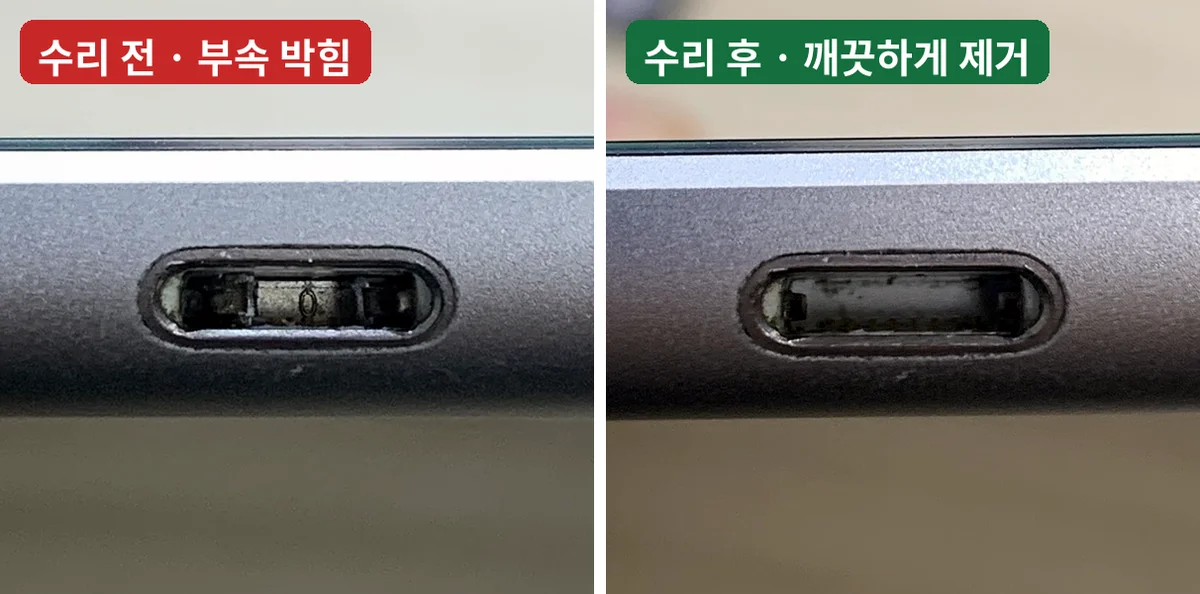
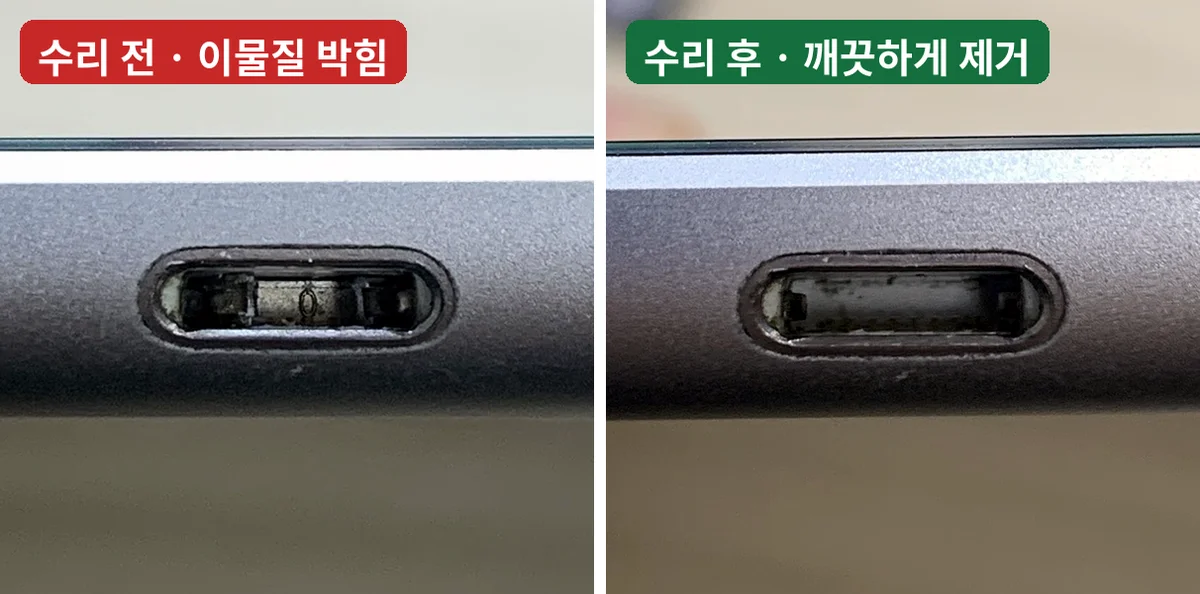
아이패드 9세대 충전단자 글: '충전기 부속'→'이물질' 표현 변경, 주소 변경 및 옛 주소 리디렉트
Claude-Session: https://claude.ai/code/session_01GKuoYgx4jjQMsMoCYLGCHG

Changed region(s): [[0.1542, 0.0303, 0.3392, 0.1515]]

diff --git a/content/blog/아이패드-충전단자-이물질-박힘-교체-없이-제거-9세대-후기.md b/content/blog/아이패드-충전단자-이물질-박힘-교체-없이-제거-9세대-후기.md
@@ -1,0 +1,105 @@
+---
+title: 아이패드 충전단자에 이물질이 박혔다면? 교체 없이 제거한 아이패드 9세대 후기
+description: 아이패드 충전단자에 이물질이 박혀 충전도 애플펜슬도 안 된다면, 억지로 빼지 말고 보드에 무리가 가지 않게 제거해야 해요. 충전단자는 메인보드와 연결돼 있어 힘으로 빼면 전원이 안 켜지거나 충전 라인이 망가질 수 있어요. 과잉 수리 없이 박힌 이물질만 제거해 합리적인 비용으로 충전과 애플펜슬을 살린 아이패드 9세대 후기로 정리했어요.
+date: 2026-11-26
+service: ipad-charging-port
+slug: 아이패드-충전단자-이물질-박힘-교체-없이-제거-9세대-후기
+question: q122
+---
+
+**아이패드 충전단자에 이물질이 박혀 충전도 애플펜슬도 안 된다면, 단자를 바로 교체하기보다 보드에 무리가 가지 않게 박힌 이물질만 제거할 수 있는지부터 확인하세요.** 충전단자는 메인보드와 연결돼 있어서, 힘으로 빼다가 보드에 무리가 가면 전원이 안 켜지거나 충전 라인이 망가질 수 있어요. 이번 아이패드 9세대는 단자 교체 없이, 보드에 문제 없이 박힌 이물질만 제거해 딱 필요한 수리만 했어요.
+
+| 방법 | 이런 경우 | 주의할 점 |
+|---|---|---|
+| 박힌 이물질만 제거 | 단자 핀과 보드가 손상되지 않음 | 보드에 힘이 가지 않게 빼야 해요 |
+| 충전단자 교체 | 제거 중이나 이전부터 단자 자체가 손상됨 | 부품 교체 비용과 시간이 더 들어요 |
+
+![아이패드 9세대 충전단자 수리 전후 비교: 왼쪽은 이물질이 박힌 모습, 오른쪽은 단자 교체 없이 이물질을 깨끗하게 제거한 모습](/images/posts/ipad-9-charging-port-before-after.webp)
+
+## 01 충전단자에 이물질이 박히면 어떤 증상이 생기나요?
+
+**충전기가 끝까지 꽂히지 않아 충전이 안 되고, 충전단자로 충전하는 애플펜슬도 충전되지 않아요.** 이번 아이패드 9세대도 충전단자 안에 이물질이 박혀 아이패드와 애플펜슬 모두 충전이 안 되는 상태였어요.
+
+![아이패드 9세대 충전단자 안에 이물질이 박혀 있는 수리 전 모습](/images/posts/ipad-9-charging-port-stuck-before.webp)
+
+## 02 박힌 이물질을 직접 빼면 안 되나요?
+
+**힘으로 빼지 않는 게 좋아요. 충전단자는 메인보드와 연결돼 있어서, 무리하게 빼다 보드에 힘이 가면 전원이 안 켜지거나 충전 라인이 망가질 수 있기 때문이에요.** 이렇게 되면 박힌 이물질 하나 때문에 충전단자 교체나 메인보드 수리까지 필요해질 수 있어요.
+
+| 무리하게 뺐을 때 생길 수 있는 문제 | 결과 |
+|---|---|
+| 보드에 무리가 감 | 전원이 안 켜질 수 있어요 |
+| 충전 라인 손상 | 이물질을 빼도 충전이 안 될 수 있어요 |
+
+### 아이패드 충전단자 이물질 제거 후기: 아이패드 9세대, 교체 없이 박힌 이물질만 제거
+
+보드에 힘이 가지 않도록 박힌 이물질을 조심스럽게 빼냈어요. 다행히 단자와 보드에 문제가 없어서 충전단자를 교체하지 않고 이물질만 제거했어요.
+
+![보드에 무리 없이 전원이 정상으로 켜지는 아이패드 9세대 잠금화면](/images/posts/ipad-9-power-on-lockscreen.webp)
+
+![아이패드 9세대 충전단자에서 빼낸 이물질 두 조각](/images/posts/ipad-9-charging-port-removed-pieces.webp)
+
+![박힌 이물질을 제거해 핀이 깨끗하게 드러난 아이패드 9세대 충전단자](/images/posts/ipad-9-charging-port-cleared.webp)
+
+## 03 제거 후에는 무엇을 확인하나요?
+
+**케이블을 꽂아 아이패드 충전이 정상으로 들어가는지, 애플펜슬도 잘 작동하는지 확인해요.** 이번 아이패드 9세대도 이물질을 제거한 뒤 충전 표시가 뜨며 정상으로 충전되고, 애플펜슬도 잘 작동하는 것을 확인하고 돌려드렸어요.
+
+![이물질 제거 후 케이블을 꽂자 충전 표시가 뜨는 아이패드 9세대](/images/posts/ipad-9-charging-after.webp)
+
+| 수리 전 | 수리 후 |
+|---|---|
+| 충전단자에 이물질이 박힘 | 박힌 이물질 제거 |
+| 아이패드·애플펜슬 충전 안 됨 | 아이패드 충전 정상, 애플펜슬 정상 작동 |
+| 새로 사야 하나 걱정 | 단자 교체 없이, 보드 문제 없이, 합리적인 비용으로 해결 |
+
+## 04 왜 단자를 바로 교체하지 않았나요?
+
+**세이프픽스는 과잉 진단이나 과잉 수리를 하지 않고, 딱 필요한 곳만 고치기 때문이에요.** 충전이 안 된다고 바로 충전단자를 교체하면 수리비가 커져요. 이번에는 단자와 보드에 문제가 없다는 걸 확인했기 때문에, 박힌 이물질만 제거해 수리비가 많이 나오지 않게 합리적인 가격으로 해결했어요.
+
+| 바로 교체했다면 | 세이프픽스가 한 수리 |
+|---|---|
+| 멀쩡한 충전단자까지 교체 | 박힌 이물질만 제거 |
+| 부품 비용이 더해짐 | 필요한 작업만, 합리적인 비용 |
+
+손님이 직접 남겨주신 네이버 리뷰예요. 리뷰 키워드에도 "가격이 합리적이에요"와 "꼼꼼하게 점검해줘요"를 골라주셨어요.
+
+![아이패드 9세대 충전단자 이물질 제거 손님의 네이버 플레이스 리뷰](/images/posts/ipad-9-charging-port-review.webp)
+
+> "아이패드 9세대 충전단자에 충전기 부속이 박혀서, 충전도 안 되고 펜슬도 충전이 안 되어서 방문하게 되었어요. … 새로 구입해야 하나 걱정 했는데, 충전단자 교체 없이 깔끔하게 잘 제거해 주셨습니다." — 네이버 플레이스 리뷰
+
+## 내 아이패드도 점검이 필요할까요?
+
+아래 중 하나라도 해당하면 억지로 빼지 말고 점검을 받아보세요.
+
+1. 충전단자 안에 이물질이 박혀 보여요.
+2. 케이블이 끝까지 들어가지 않고 충전이 안 돼요.
+3. 충전단자로 충전하는 애플펜슬도 충전이 안 돼요.
+
+세이프픽스는 단자와 보드 상태를 먼저 확인하고, 이물질 제거로 끝날지 단자 교체가 필요한지 안내드린 뒤 동의하실 때 수리를 진행해요. 필요 없는 부품 교체는 권하지 않아요.
+
+## 자주 묻는 질문
+
+### 아이패드 충전단자에 이물질이 박히면 단자를 꼭 교체해야 하나요?
+
+꼭 그렇지는 않아요. 단자 핀과 보드가 손상되지 않았다면 박힌 이물질만 제거해서 해결할 수 있어요. 이번 아이패드 9세대도 단자 교체 없이 해결했어요.
+
+### 핀셋이나 바늘로 직접 빼도 되나요?
+
+권하지 않아요. 충전단자는 메인보드와 연결돼 있어서 힘으로 빼다 보드에 무리가 가면 전원이 안 켜지거나 충전 라인이 망가질 수 있어요.
+
+### 박힌 이물질을 빼도 충전이 안 되면 어떻게 하나요?
+
+단자나 충전 회로가 손상됐을 수 있어요. 이때는 충전단자 교체나 충전 회로 점검이 필요해요. 충전 안 됨의 다른 원인은 [아이패드 충전 안됨 원인 3가지](/services/ipad-not-charging/아이패드-충전-안됨-원인-3가지-충전단자-마모-수리-후기)에서 확인해 보세요.
+
+### 이물질만 제거하면 비용이 적게 드나요?
+
+부품을 바꾸지 않으니 단자 교체보다 비용이 적게 들어요. 세이프픽스는 과잉 수리 없이 필요한 작업만 해서 합리적인 비용으로 안내드려요.
+
+### 수리 후 보증이 되나요?
+
+액정을 제외한 수리는 3개월 무상 보증이 적용돼요.
+
+## 충전단자에 뭔가 박혔다면, 빼기 전에 먼저 확인해 보세요
+
+박힌 이물질을 억지로 빼다 보드가 상하면 수리 범위가 커져요. 단자와 보드 상태를 먼저 확인하면 교체 없이 끝낼 수 있는 경우가 많아요. 자세한 안내는 [아이패드 충전단자고장](/services/ipad-charging-port)에서 확인하실 수 있어요.
